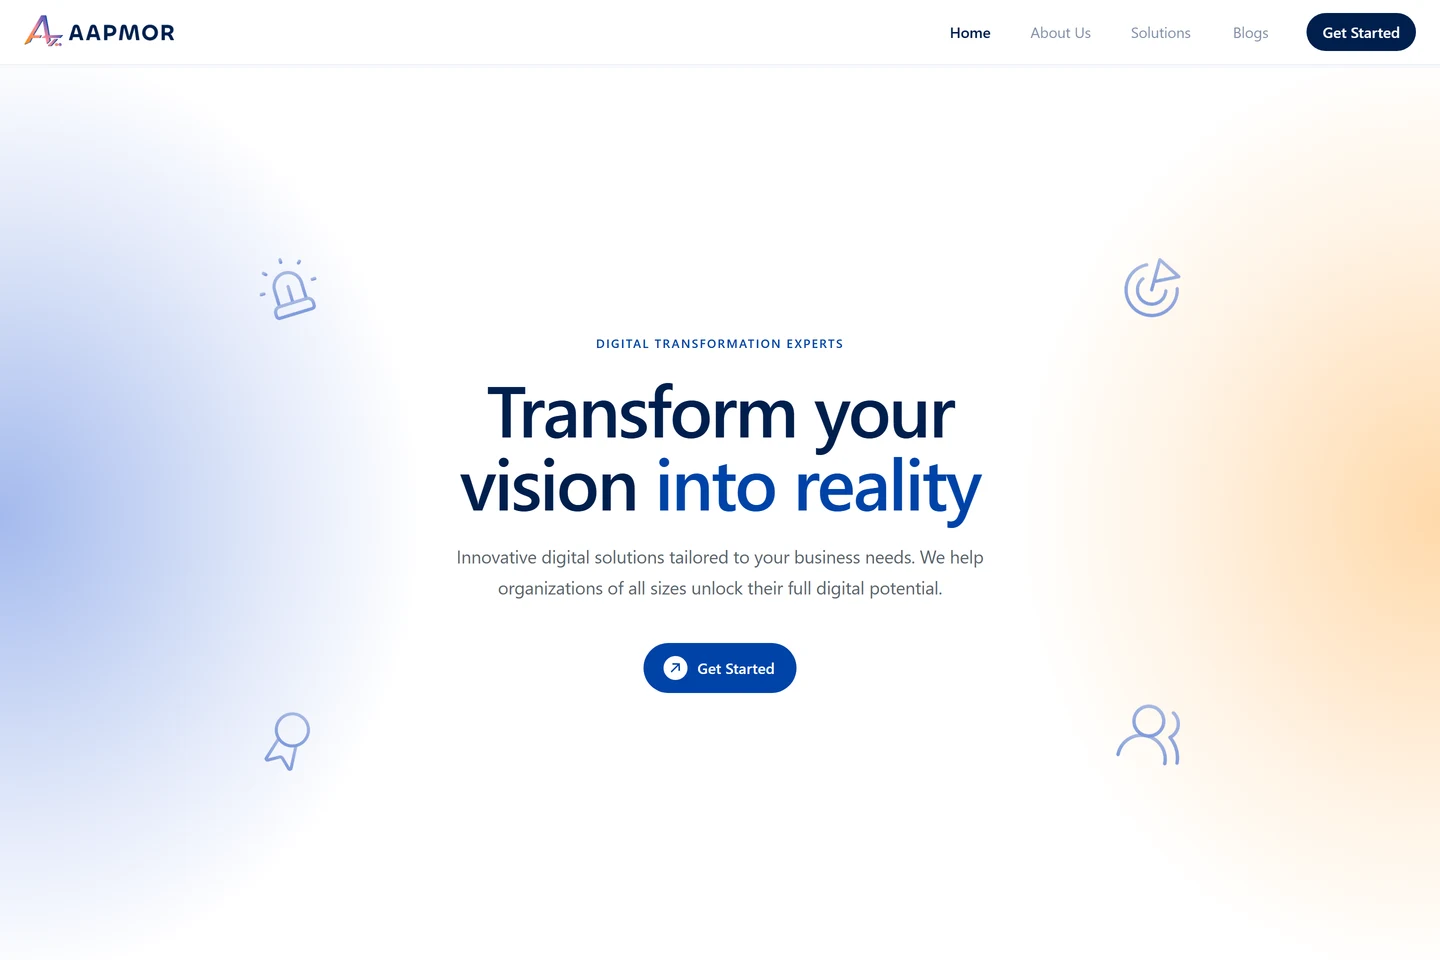
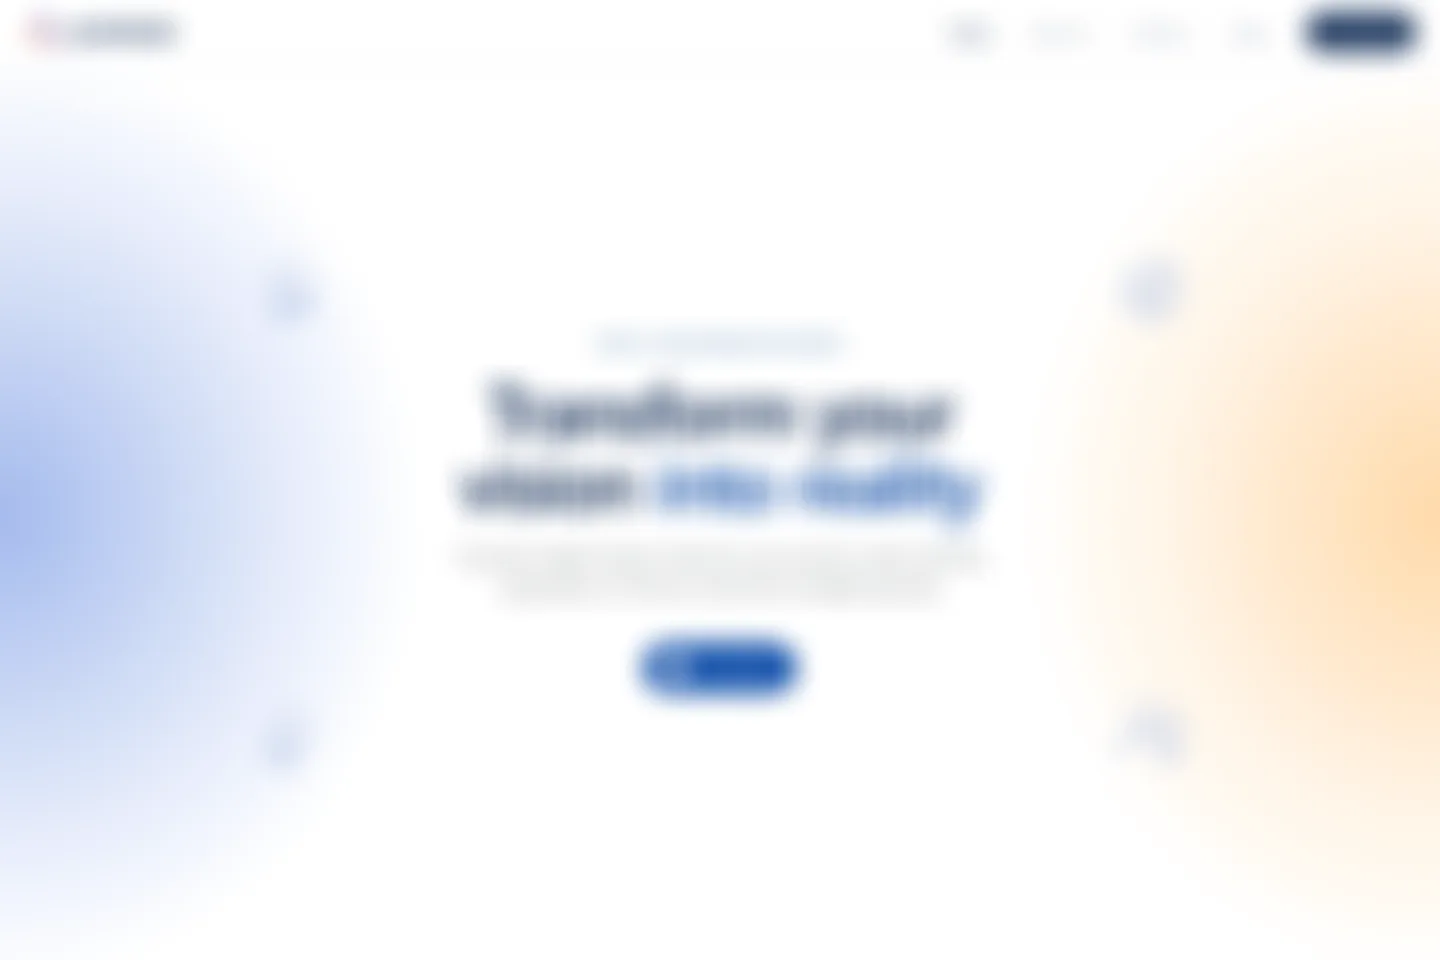
added blur images

diff --git a/lib/content.ts b/lib/content.ts
@@ -102,16 +102,7 @@ export const techStack: TechCategory[] = [
     category: "Cloud, Quality & Tools",
     icon: Layers,
     depth: "Familiar",
-    items: [
-      "Azure",
-      "Infrastructure as code (Bicep)",
-      "GitHub Actions",
-      "Jest",
-      "Accessibility (WCAG)",
-      "Lighthouse",
-      "Git",
-      "Jira",
-    ],
+    items: ["Azure", "GitHub Actions", "Jest", "Accessibility (WCAG)", "Lighthouse", "Git", "Jira"],
   },
 ];
 
@@ -269,6 +260,8 @@ export const projects: ProjectEntry[] = [
     },
     quote: "Buying dental cover online.",
     badge: "Live",
+    // Blurred on purpose - client work.
+    image: "/images/project-ldp.webp",
     stack: [
       "Next.js",
       "React",
@@ -313,6 +306,8 @@ export const projects: ProjectEntry[] = [
     },
     quote: "From legacy SAP screens to a UI people actually enjoy using.",
     badge: "Confidential",
+    // Blurred on purpose - client work under NDA.
+    image: "/images/project-jnj.webp",
     stack: [
       "React",
       "Node",
@@ -401,6 +396,8 @@ export const projects: ProjectEntry[] = [
     quote:
       "Where performance meets growth through intelligent feedback and transparent evaluation.",
     badge: "Internal",
+    // Blurred on purpose - internal tool.
+    image: "/images/project-pms.webp",
     stack: [
       "React",
       "Node.js",
@@ -444,12 +441,10 @@ export const projects: ProjectEntry[] = [
       ],
     },
     quote: "Building tools that make teams work smarter, not harder.",
-    badge: "Live",
-    image: "/images/project-aapmor.webp",
-    links: [
-      { label: "Aapmor Website", url: "https://aapmor.com/" },
-      { label: "Shiftlyn", url: "https://shiftlyn.com/" },
-    ],
+    badge: "Internal",
+    // Blurred on purpose - company site.
+    image: "/images/project-aapmor-blur.webp",
+    links: [{ label: "Shiftlyn", url: "https://shiftlyn.com/" }],
     stack: [
       "React",
       "Node.js",
